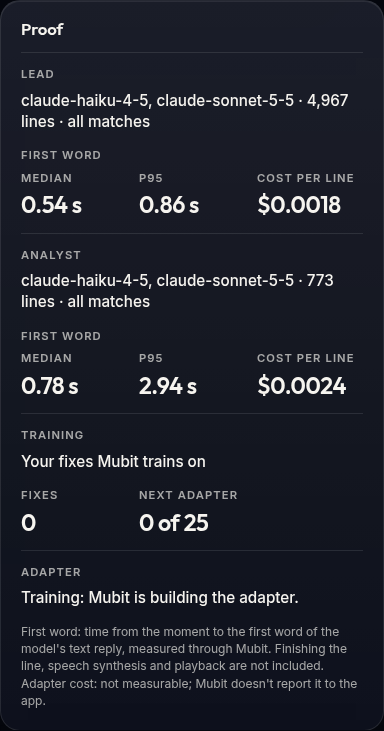
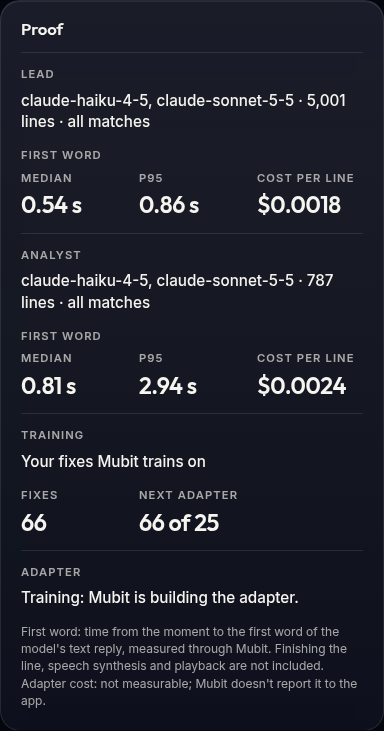
docs: Real numbers from one /stats read at 14:18 UTC; 66 corrections recorded; #172 is in; test: off-air 402 check on a word boundary (#143)
The flaky assert matched "402" inside a random hex line id (about 1% of
runs); it now looks for 402 as a word. proof.png retaken with the fixes.

Req: A-9.1@1

diff --git a/tests/test_core_ask.py b/tests/test_core_ask.py
@@ -2,6 +2,7 @@
 far, stores it, publishes it on the stream and speaks it; off air it gives the calm copy."""
 
 import asyncio
+import re
 import threading
 from functools import partial
 
@@ -147,7 +148,8 @@ def test_off_air_is_the_calm_copy_and_stores_nothing(tmp_path):
     said = resp.json()
     assert resp.status_code == 200
     assert said["off_air"] is True and said["text"] == OFF_AIR and said["moment_idx"] == 3
-    assert "402" not in resp.text and "mubit" not in resp.text
+    # a word boundary: a random hex id can contain "402"
+    assert not re.search(r"\b402\b", resp.text) and "mubit" not in resp.text
     assert store.all("answers") == [] and ("answer", said) in events
 
 

diff --git a/README.md b/README.md
@@ -134,7 +134,9 @@ map, it reads only moments up to the one on screen ([`core/app.py`](core/app.py)
 
 A producer corrects a wrong line on the page. The server stores the fix beside the original and sends
 it back through the same Mubit task and session, as a second turn: that is how a correction is built to become
-training signal. No fix has been made on the live site yet, so no fix has trained a model ([`core/app.py`](core/app.py) `fix_line`, [`tests/test_core_fix.py`](tests/test_core_fix.py)).
+training signal. `/stats` shows 66 corrections recorded for training: the team's, from the
+number-check fix list, applied on the live site. No adapter version trained on them is recorded
+yet ([`core/app.py`](core/app.py) `fix_line`, [`tests/test_core_fix.py`](tests/test_core_fix.py)).
 
 #### Big model vs ours
 
@@ -152,7 +154,7 @@ every live page.
 
 #### The Proof panel
 
-<img src="docs/img/proof.png" alt="The Proof card, split by speaker. Lead: claude-haiku-4-5, claude-sonnet-5-5, its line count across all matches; first word median 0.54 s and p95 0.86 s, cost per line $0.0018. Analyst: claude-haiku-4-5, claude-sonnet-5-5, its line count across all matches; first word median 0.78 s and p95 2.94 s, cost per line $0.0024. Training: Your fixes Mubit trains on, Fixes 0, Next adapter 0 of 25. Adapter: Training, Mubit is building the adapter. Under it, a note: first word is the time from the moment to the first word of the model's text reply, measured through Mubit, not counting the rest of the line, speech synthesis or playback; the adapter's cost is not measurable, because Mubit doesn't report it to the app." width="50%">
+<img src="docs/img/proof.png" alt="The Proof card, split by speaker. Lead: claude-haiku-4-5, claude-sonnet-5-5, its line count across all matches; first word median 0.54 s and p95 0.86 s, cost per line $0.0018. Analyst: claude-haiku-4-5, claude-sonnet-5-5, its line count across all matches; first word median 0.81 s and p95 2.94 s, cost per line $0.0024. Training: Your fixes Mubit trains on, Fixes 66, Next adapter 66 of 25. Adapter: Training, Mubit is building the adapter. Under it, a note: first word is the time from the moment to the first word of the model's text reply, measured through Mubit, not counting the rest of the line, speech synthesis or playback; the adapter's cost is not measurable, because Mubit doesn't report it to the app." width="50%">
 
 Live latency, cost per line and lines called, split by lead and analyst (#166); the fixes Mubit trains
 on and how many count toward the next adapter; and the adapter's state. All computed from the store,
@@ -163,7 +165,7 @@ the same numbers as `GET /stats` (its `by_speaker`) ([`web/src/components/ProofP
 
 Each criterion weighs the same; one line each, with where to check it.
 
-- **Use of Mubit (a correction becomes a model update):** every call goes through one Mubit task; its recorded lines have trained [6 adapter versions](#real-numbers) so far (none passed yet), and a producer's [fix](#producer-fixes) is stored beside the line as the correction for the next version.
+- **Use of Mubit (a correction becomes a model update):** every call goes through one Mubit task; its recorded lines have trained [6 adapter versions](#real-numbers) so far (none passed yet), and a producer's [fix](#producer-fixes) is stored beside the line as the correction for the next version: 66 corrections recorded for training so far, the team's, from the number-check fix list.
 - **Usefulness (a real recurring task):** a major broadcaster now describes [only some Premier League games (about 109 of 380)](#the-problem), and elsewhere live audio description is voluntary and patchy; Touchline speaks the key moments of [six real matches in four sports](#the-six-matches) from their real event data.
 - **Technical execution:** a line in [0.54 s to its first word](#real-numbers) (median), gated on the video's clock, an offline test suite (`make check`) and a live smoke test on every deploy; [architecture](docs/ARCHITECTURE.md) and [known limitations](#known-limitations).
 - **Demo:** two minutes on the live URL, scripted in [docs/demo.md](docs/demo.md); the [60-second path](#the-60-second-path) above is the short version.
@@ -179,8 +181,8 @@ Each criterion weighs the same; one line each, with where to check it.
   a Mubit adapter, trained on its own matches, and every producer correction is a training signal
   that makes it better.
 - **Built for fans who can't see the screen.** Audio first, with keyboard and screen reader working
-  throughout (#170), and football moments that say where on the pitch they happened, from the event
-  data's own locations (#172). Both are in progress.
+  throughout (#170, in progress). Football shots already say where on the pitch they came from,
+  from the event data's own locations (#172).
 - **The fan layer.** Ask by typing or voice, a choice of voices, and Follow a player, on any match.
 - **At scale,** Redis fans each match's lines out to every viewer and caches them across instances,
   and SurrealDB holds players, teams, matches and seasons as a graph
@@ -189,28 +191,28 @@ Each criterion weighs the same; one line each, with where to check it.
 ## Real numbers
 
 Read once from the live service's [`GET /stats`](https://night-shift-5zvig7nbvq-ew.a.run.app/stats)
-on 24 October 2026 at 14:11 UTC, adapter status included; every number below comes from that one
+on 24 October 2026 at 14:18 UTC, adapter status included; every number below comes from that one
 read, and they move as people use the site. Moment lines are `claude-haiku-4-5` calls, recorded;
 since #142 the analyst's stat lines and the lead's replies to it are `claude-sonnet-5-5`, unrecorded.
 The totals count both, each priced at its own model's rate, and `by_speaker` splits them.
 
 | | Big model via Mubit (all lines) | Our trained commentator (Mubit adapter) |
 |---|---|---|
-| Lines called | 5,760 (5,895 Mubit calls, counted by their request ids) | none: not callable by the app |
-| First word of the model's text, p50 / p95 | 541 ms / 1,335 ms | not measured |
-| Full line, p50 / p95 | 896 ms / 1,740 ms | not measured |
+| Lines called | 5,773 (5,908 Mubit calls, counted by their request ids) | none: not callable by the app |
+| First word of the model's text, p50 / p95 | 541 ms / 1,333 ms | not measured |
+| Full line, p50 / p95 | 896 ms / 1,733 ms | not measured |
 | Cost per line | $0.0019 | not reported by Mubit |
-| Tokens per line, in / out | about 1,608 / 31 (9,264,736 / 179,234 over 5,760 lines) | not measured |
-| Producer fixes | 0 so far (0 recorded for training); the first is made in the demo | |
+| Tokens per line, in / out | about 1,608 / 31 (9,285,273 / 179,591 over 5,773 lines) | not measured |
+| Producer fixes | 66 corrections recorded for training, all 66 counted toward the next adapter version: the team's, from the number-check fix list | |
 
 Split by speaker (`by_speaker`, same read):
 
 | | Lines | First word, p50 / p95 | Cost per line |
 |---|---|---|---|
-| Lead (Haiku moment lines, Sonnet replies) | 4,981 | 536 ms / 864 ms | $0.0018 |
+| Lead (Haiku moment lines, Sonnet replies) | 4,994 | 536 ms / 863 ms | $0.0018 |
 | Analyst (stat lines; Haiku before #142, Sonnet since) | 779 | 788 ms / 2,939 ms | $0.0024 |
 
-The overall p95 (1,335 ms) is above the lead's (864 ms) because the analyst's lines are slower.
+The overall p95 (1,333 ms) is above the lead's (863 ms) because the analyst's lines are slower.
 
 "First word" is from the moment to the first word of the model's text reply, not the audio:
 speech synthesis and playback come after it.
@@ -218,7 +220,7 @@ speech synthesis and playback come after it.
 **The adapter, exactly as it stands.** Mubit has trained 6 adapter versions on our task's recorded lines. All 6 are "not
 ready": none has passed Mubit's test yet, and the best scored 55.8% on Mubit's test. That is the record in [`data/side_by_side.json`](data/side_by_side.json), copied by hand from
 Mubit's console on 24 October 2026. We make no claim that the adapter matches the big model until a
-result shows it. `/stats` reports the adapter's status as `training` (at 14:11 UTC), recorded from
+result shows it. `/stats` reports the adapter's status as `training` (at 14:18 UTC), recorded from
 the console with [`eval/record_adapter.py`](eval/record_adapter.py); it reports no agreement result,
 because no version has passed.
 
@@ -262,8 +264,9 @@ streaming platforms, for the long tail of matches they stream with no describer.
 **Touchline** describes a match aloud for fans who can't see it. It plays a match's broadcast
 highlights, and as each key moment plays (a goal, a wicket, a three) it calls it in one short line,
 read aloud in a commentator's voice and shown as a large subtitle. It describes key moments, not
-every pass: what happened and who did it, often with the score. Making the page itself work without sight
-(#170) and saying where on the pitch a football moment happened (#172) are in progress.
+every pass: what happened and who did it, often with the score. Football shots say where on the pitch they came
+from, from the event data's own locations (#172). Making the page itself work without sight
+(#170) is in progress.
 
 One agent calls every sport. It reads the match's real event feed, looks up the score, the player and
 recent play with tools, and never sees anything from later in the match than the moment it is
@@ -294,8 +297,9 @@ producer fixes go into the same task as corrections. That smaller model is what 
    and sent as the next turn of that line's request on the owner's key (`MUBIT_FALLBACK_KEY`) with
    recording on, whatever `MUBIT_RECORD` says; a fix to an analyst's stat line stays unrecorded,
    like those lines. The Proof card shows the fixes recorded and how many count toward the next
-   adapter. No fix has been made on the live site yet (`fixes` is 0 in `/stats`), so the adapters
-   so far were trained on recorded commentary only.
+   adapter. `/stats` shows 66 corrections recorded for training: the team's, from the number-check
+   fix list. No adapter version trained on them is recorded yet; the 6 so far were trained on
+   recorded commentary.
 6. **Mubit request ids we stored.** Each line stores the Mubit request id of every call it made,
    and `GET /stats` counts calls from those ids; nothing checks them against Mubit's console.
 7. **The trained model is measured, not assumed.** 6 adapter versions trained, none has passed Mubit's
